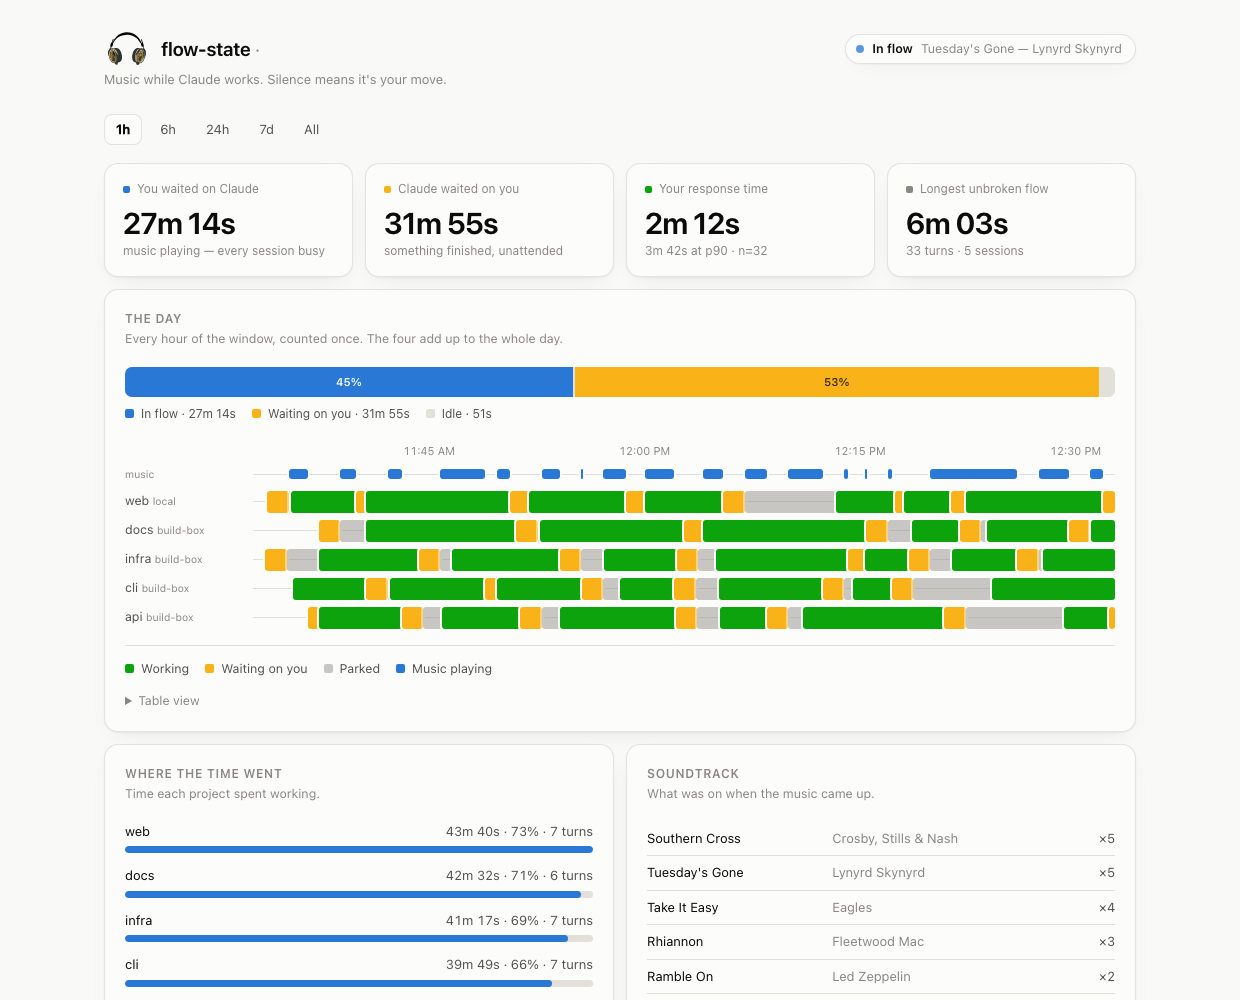
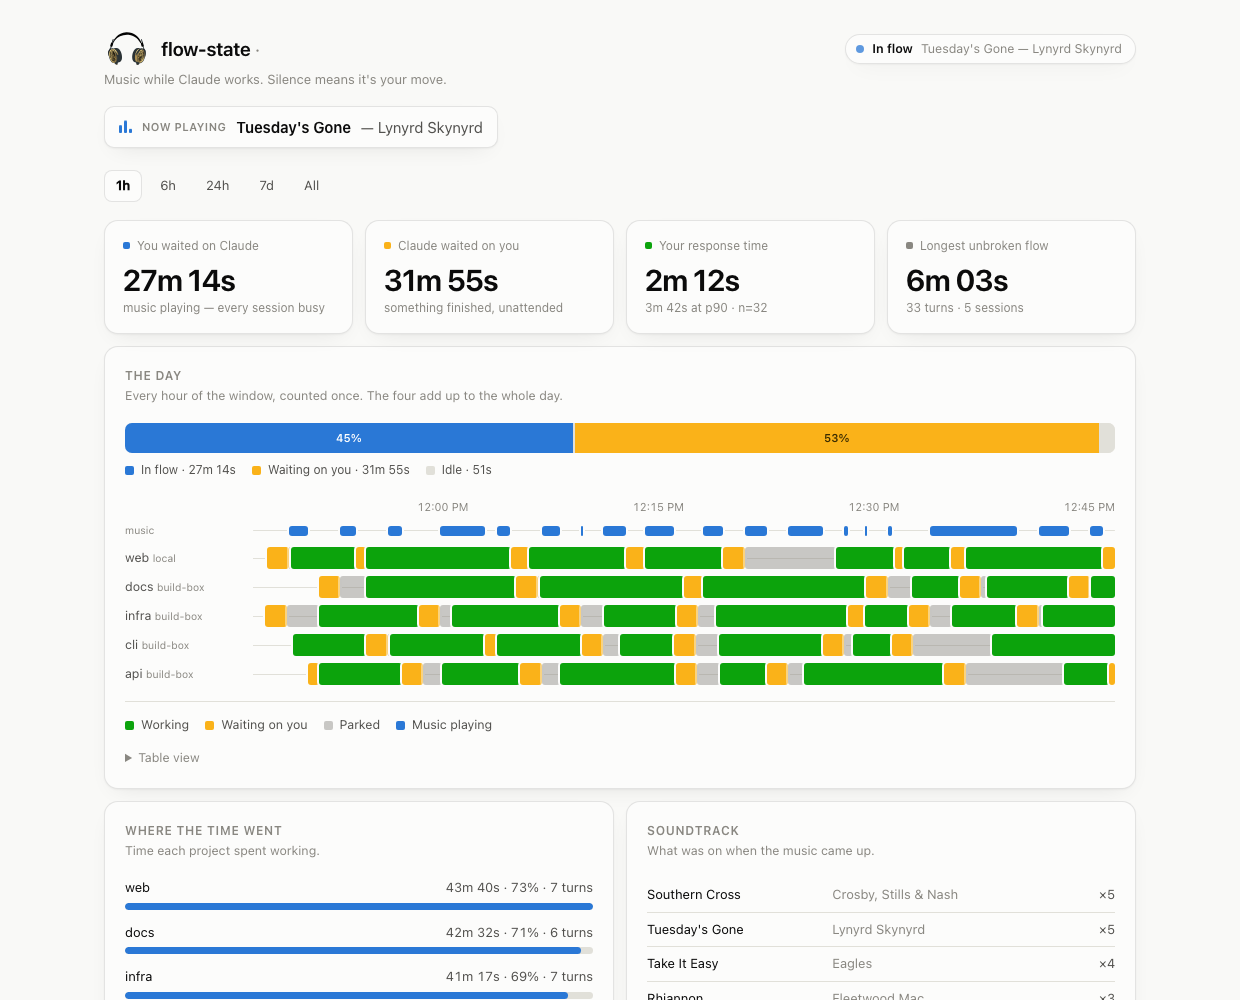
feat: persistent now-playing on the dashboard
Shows the track Spotify is playing right now, read fresh off the app on every
refresh — so you can glance at the panel and your Spotify side by side and
confirm the log is live capture, not a mock. Animated equalizer while playing,
pause glyph when paused, hidden when Spotify isn't running.

diff --git a/src/flowstate/dashboard.html b/src/flowstate/dashboard.html
@@ -61,7 +61,29 @@
   .logo { display: block; flex: none; }
   h1 { font-size: 19px; font-weight: 620; margin: 0; letter-spacing: -0.01em; }
   h1 .dot { color: var(--ink-muted); font-weight: 400; }
-  .tagline { color: var(--ink-muted); font-size: 13px; margin: 0 0 24px; }
+  .tagline { color: var(--ink-muted); font-size: 13px; margin: 0 0 16px; }
+
+  /* persistent now-playing — read straight off Spotify each refresh, so you can
+     eyeball it against the app and confirm the log is live capture, not mock */
+  .nowplaying { display: inline-flex; align-items: center; gap: 10px;
+    background: var(--surface); border: 1px solid var(--hairline); border-radius: 10px;
+    padding: 9px 14px; margin-bottom: 22px; box-shadow: var(--shadow); max-width: 100%; }
+  .nowplaying .np-ico { font-size: 15px; flex: none; }
+  .nowplaying .np-state { font-size: 11px; font-weight: 600; letter-spacing: .04em;
+    text-transform: uppercase; color: var(--ink-muted); flex: none; }
+  .nowplaying .np-track { font-weight: 600; color: var(--ink);
+    overflow: hidden; text-overflow: ellipsis; white-space: nowrap; }
+  .nowplaying .np-artist { color: var(--ink-2); overflow: hidden; text-overflow: ellipsis;
+    white-space: nowrap; }
+  .nowplaying.paused .np-ico { opacity: .5; }
+  .nowplaying.off { color: var(--ink-muted); }
+  @keyframes eq { 0%,100% { transform: scaleY(.4) } 50% { transform: scaleY(1) } }
+  .nowplaying .bars { display: inline-flex; align-items: flex-end; gap: 2px; height: 13px; flex: none; }
+  .nowplaying .bars i { width: 3px; background: var(--music); border-radius: 1px; transform-origin: bottom; }
+  .nowplaying.playing .bars i { animation: eq .9s ease-in-out infinite; }
+  .nowplaying .bars i:nth-child(2) { animation-delay: .15s; }
+  .nowplaying .bars i:nth-child(3) { animation-delay: .3s; }
+  @media (prefers-reduced-motion: reduce) { .nowplaying.playing .bars i { animation: none; transform: scaleY(.7); } }
 
   /* live pill */
   .live {
@@ -206,6 +228,8 @@
     <div class="live" id="live"><span class="beacon"></span><span>—</span></div>
   </header>
   <p class="tagline">Music while Claude works. Silence means it's your move.</p>
+
+  <div id="nowplaying"></div>
 
   <div class="ranges" id="ranges">
     <button data-since="1h">1h</button>
@@ -439,6 +463,25 @@ function renderSoundtrack(m) {
         <td class="tr-n">×${t.plays}</td></tr>`).join('') + '</table>';
 }
 
+function renderNow(m) {
+  const n = m.now || {}, el = $('#nowplaying');
+  const st = n.spotify;  // 'playing' | 'paused' | 'stopped' | null
+  if (!st) { el.innerHTML = ''; return; }  // Spotify not running — show nothing
+  const t = n.track;
+  const bars = '<span class="bars"><i style="height:60%"></i><i style="height:100%"></i><i style="height:45%"></i></span>';
+  if (!t) {
+    el.innerHTML = `<div class="nowplaying off"><span class="np-state">${esc(st)}</span>
+      <span class="np-artist">nothing loaded</span></div>`;
+    return;
+  }
+  el.innerHTML = `<div class="nowplaying ${st === 'playing' ? 'playing' : 'paused'}">
+    ${st === 'playing' ? bars : '<span class="np-ico">⏸</span>'}
+    <span class="np-state">${st === 'playing' ? 'Now playing' : 'Paused'}</span>
+    <span class="np-track">${esc(t.track)}</span>
+    <span class="np-artist">— ${esc(t.artist)}</span>
+  </div>`;
+}
+
 function renderLive(m) {
   const n = m.now || {}, el = $('#live');
   let cls = 'beacon', txt;
@@ -461,7 +504,7 @@ async function load() {
     const r = await fetch('/api/stats?since=' + encodeURIComponent(since));
     if (!r.ok) throw new Error('HTTP ' + r.status);
     const m = await r.json();
-    renderLive(m); renderTiles(m); renderDaybar(m); renderSwim(m); renderProjects(m); renderSoundtrack(m);
+    renderLive(m); renderNow(m); renderTiles(m); renderDaybar(m); renderSwim(m); renderProjects(m); renderSoundtrack(m);
     loaded = true;
   } catch (e) {
     if (!loaded) {